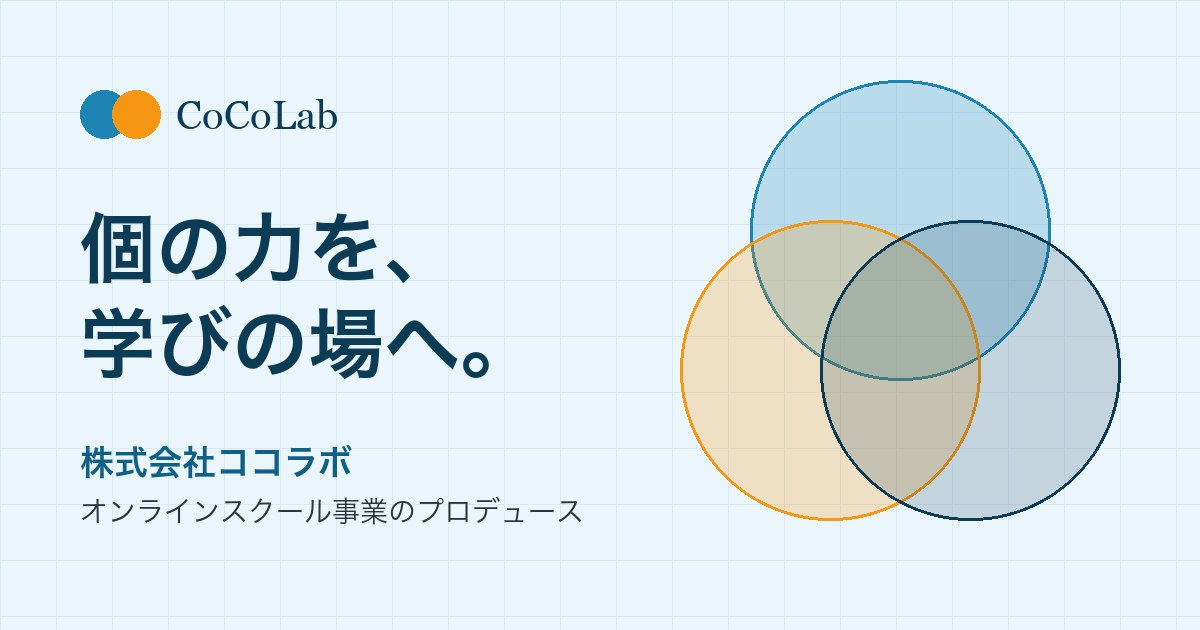
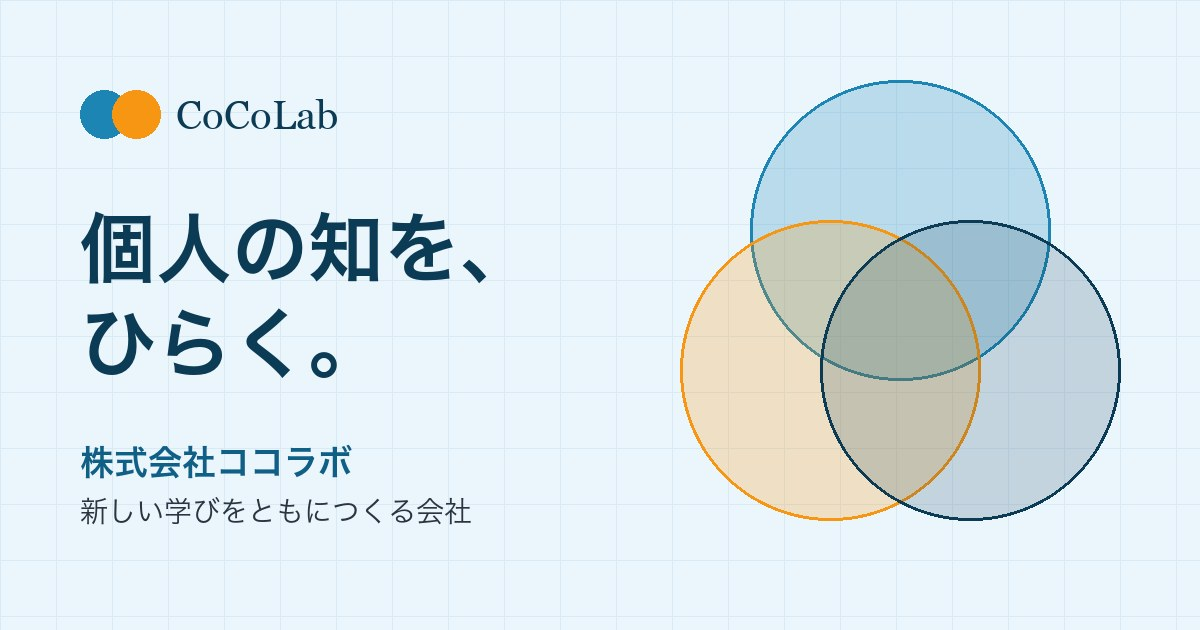
Add files via upload

diff --git a/index.html b/index.html
@@ -59,9 +59,15 @@
 <section class="hero hero--co" aria-label="メインビジュアル">
   <div class="container hero__grid">
     <div class="hero__copy">
-      <p class="hero__en">Individuals,<br>Collaborating.</p>
-      <h1 class="hero__title">個の力を、<br>学びの場へ。</h1>
-      <p class="hero__sub">株式会社ココラボは、オンラインスクール事業のプロデュースを行う会社です。専門家が持つ知見と経験を、価値ある“学び”のかたちに設計し、企画から集客・運営・改善まで一気通貫で伴走します。</p>
+      <p class="hero__en">Open knowledge,<br>open the future.</p>
+      <h1 class="hero__title">個人の知を、<br>ひらく。</h1>
+      <div class="hero__body">
+        <p>世の中には、まだ共有されていない知恵があります。</p>
+        <p>仕事で磨いた専門性。経験から生まれた工夫。<br class="pc-only">自分だけが知っている、うまくいく方法。</p>
+        <p>ココラボは、一人ひとりの中にある知を見つけ、整理し、<br class="pc-only">誰もが学べるかたちへ変えていきます。</p>
+        <p class="hero__lines">一人の知がひらかれる。<br>誰かの選択肢が増える。<br>そこから、新しい可能性が広がっていく。</p>
+        <p class="hero__close">知をひらき、未来をひらく。<br>ココラボは、新しい学びをともにつくる会社です。</p>
+      </div>
       <div class="hero__actions">
         <a class="btn btn--lg" href="business.html">事業紹介を見る</a>
         <a class="btn btn--ghost btn--lg" href="contact.html">お問い合わせ</a>

diff --git a/style.css b/style.css
@@ -523,3 +523,8 @@ a.card:hover .card__img img{transform:scale(1.04)}
 .msg-teaser--text{grid-template-columns:1fr;max-width:820px}
 .msg-teaser--text .msg-teaser__title{margin-top:22px}
 .greeting--text{grid-template-columns:1fr;max-width:820px;margin-inline:auto}
+
+/* hero statement copy */
+.hero__body{margin-top:24px;display:grid;gap:14px;max-width:34em;font-size:clamp(15px,1.25vw,16px);line-height:1.95;color:#2A3540}
+.hero__lines{padding-left:16px;border-left:3px solid var(--orange);font-weight:500;color:var(--blue-ink)}
+.hero__close{font-weight:700;color:var(--blue-ink)}
